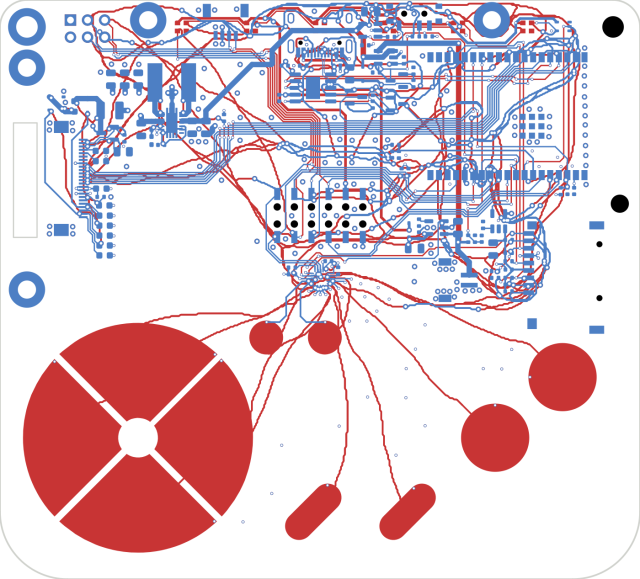
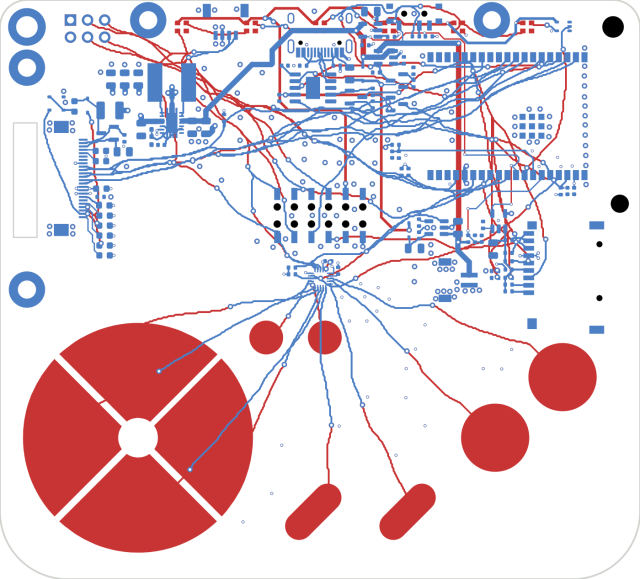
Kami after the net table fix: 72/72 nets, 80 vias, 16 minutes

diff --git a/README.md b/README.md
@@ -522,8 +522,8 @@ the 49 signal nets at 0.3 mm cells; the Edge.Cuts star is the routable region): 
 | ![star](docs/img/physarum_hackerhotel2027.gif) | ![star copper](docs/img/physarum_hackerhotel2027_copper.png) 25201 segments, 206 vias; red F.Cu (the matrix is the original), blue B.Cu |
 
 And [Kami](https://github.com/Nicolai-Electronics/kami-hardware) (the SHA2017 badge re-imagined, 4 layers, 443
-pads; 72 signal nets at 0.2 mm cells, the 1564 power tracks and vias of the hand routing kept as obstacles):
-65/72, 25 minutes (long nets on a 95 x 88 mm board keep big regions of interest; the solves dominate).
+pads; 72 signal nets at 0.2 mm cells, the 737 power tracks and vias of the hand routing kept as obstacles):
+72/72, 80 vias, 16 minutes (long nets on a 95 x 88 mm board keep big regions of interest; the solves dominate).
 
 | | |
 |---|---|
